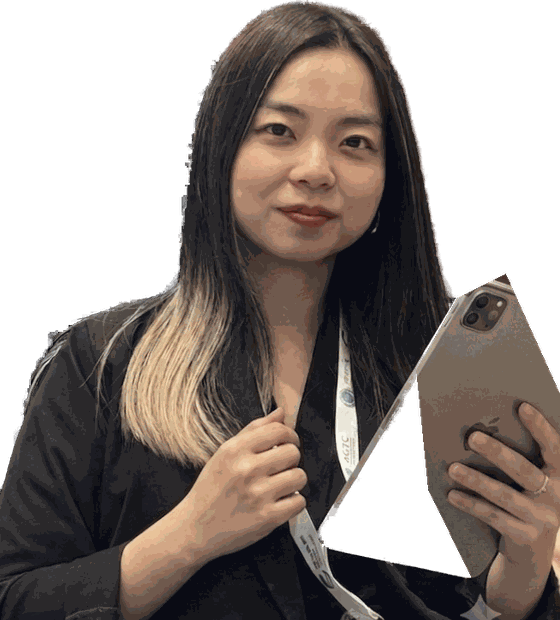
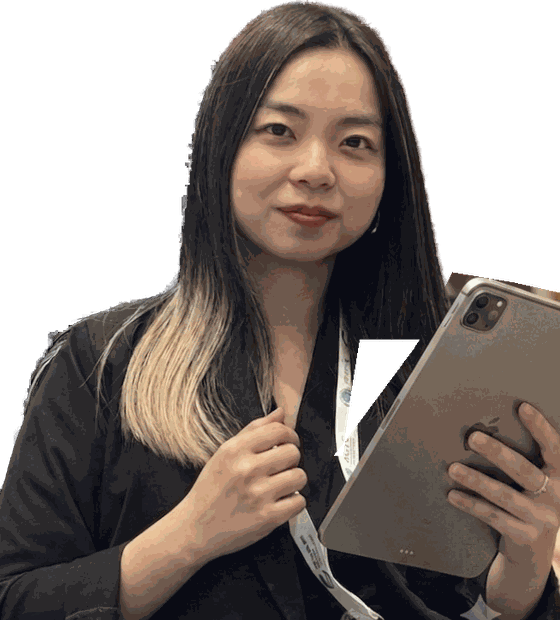
Rev 11: go live with real contacts - Formspree endpoint, Zalo zalo.me link, TikTok, OG image v2 with her photo; hero name fully visible, caption removed

Changed region(s): [[0.5464, 0.521, 0.85, 0.95], [0.9107, 0.4597, 1.0, 0.6435], [0.7893, 0.429, 0.9107, 0.521]]

diff --git a/site/index.html b/site/index.html
@@ -64,7 +64,7 @@ NO free trial anywhere (level test only). Levels are Newbie / Breaker / Speaker.
     </nav>
     <div class="head-actions">
       <span class="lang"><a href="index.en.html">EN</a><a href="index.html" class="on" aria-current="true">VI</a></span>
-      <a href="https://zaloapp.com/qr/p/1b4ahhjd1ysoh" target="_blank" rel="noopener" class="btn btn--primary head-cta" data-placement="header">Nhắn Zalo</a>
+      <a href="https://zalo.me/0376427464" target="_blank" rel="noopener noreferrer" class="btn btn--primary head-cta" data-placement="header">Nhắn Zalo</a>
     </div>
   </div>
 </header>
@@ -78,7 +78,7 @@ NO free trial anywhere (level test only). Levels are Newbie / Breaker / Speaker.
         <p class="display-kicker">Daily Chat.</p>
         <h1 class="hero-h1">Tiếng Anh giao tiếp online cho người đi làm. <mark>Nói thật hơn, tự tin hơn.</mark></h1>
         <div class="hero-ctas">
-          <a href="https://zaloapp.com/qr/p/1b4ahhjd1ysoh" target="_blank" rel="noopener" class="btn btn--primary btn--lg" data-placement="hero">Nhận tư vấn ngay</a>
+          <a href="https://zalo.me/0376427464" target="_blank" rel="noopener noreferrer" class="btn btn--primary btn--lg" data-placement="hero">Nhận tư vấn ngay</a>
         </div>
         <nav class="hero-menu" aria-label="Lối tắt">
           <a href="#enquiry"><span class="tri">→</span> Kiểm tra trình độ miễn phí <span class="num">01</span></a>
@@ -92,7 +92,6 @@ NO free trial anywhere (level test only). Levels are Newbie / Breaker / Speaker.
           <span class="meet-script" aria-hidden="true">Meet</span>
           <img class="meet-photo" src="assets/chloe-cutout-560.png" alt="Chloe" width="560" height="620" fetchpriority="high">
         </figure>
-        <p class="hero-name">Meet Chloe</p>
       </div>
     </div>
   </section>
@@ -164,7 +163,7 @@ NO free trial anywhere (level test only). Levels are Newbie / Breaker / Speaker.
         <h3>Đồng hành đến khi bạn tự tin đi phỏng vấn</h3>
         <p>Nếu gần đến ngày phỏng vấn mà bạn vẫn chưa tự tin, mình sẽ tiếp tục kèm miễn phí để bạn chuẩn bị tốt nhất.</p>
       </div>
-      <p class="small muted" style="margin-top:1rem">Học phí từ 4.900.000 đ, tùy trình độ hiện tại. <a href="https://zaloapp.com/qr/p/1b4ahhjd1ysoh" target="_blank" rel="noopener">Nhận tư vấn ngay</a>.</p>
+      <p class="small muted" style="margin-top:1rem">Học phí từ 4.900.000 đ, tùy trình độ hiện tại. <a href="https://zalo.me/0376427464" target="_blank" rel="noopener noreferrer">Nhận tư vấn ngay</a>.</p>
     </div>
   </section>
 
@@ -377,7 +376,7 @@ NO free trial anywhere (level test only). Levels are Newbie / Breaker / Speaker.
       </div>
       <div class="enquiry-grid">
         <div class="zalo-first">
-          <a href="https://zaloapp.com/qr/p/1b4ahhjd1ysoh" target="_blank" rel="noopener" class="btn btn--zalo btn--lg btn--block" data-placement="enquiry">Nhắn Zalo ngay</a>
+          <a href="https://zalo.me/0376427464" target="_blank" rel="noopener noreferrer" class="btn btn--zalo btn--lg btn--block" data-placement="enquiry">Nhắn Zalo ngay</a>
           <p class="muted">Cách nhanh nhất: nhắn mình qua Zalo. Hoặc để lại thông tin, mình sẽ chủ động liên hệ bạn:</p>
         </div>
         <div class="form-card">
@@ -388,7 +387,7 @@ NO free trial anywhere (level test only). Levels are Newbie / Breaker / Speaker.
               <p class="chat-card__status">Thường phản hồi trong 1 giờ</p>
             </div>
           </div>
-          <form action="REPLACE_FORMSPREE" method="POST" class="draft">
+          <form action="https://formspree.io/f/mrpzjoyy" method="POST">
             <div class="form-2col">
               <div class="field"><label class="flabel" for="f-name">Họ và tên</label><input required minlength="2" id="f-name" name="name" placeholder="Nguyễn Thu Trang" autocomplete="name"></div>
               <div class="field"><label class="flabel" for="f-contact">Số điện thoại (Zalo)</label><input required pattern="[0-9+ \(\)\-]{8,20}" id="f-contact" name="contact" placeholder="09xx xxx xxx" inputmode="tel" autocomplete="tel"></div>
@@ -427,9 +426,9 @@ NO free trial anywhere (level test only). Levels are Newbie / Breaker / Speaker.
       <p class="foot-tag muted">Học tiếng Anh qua những cuộc trò chuyện thật, không rập khuôn, không học vẹt.</p>
     </div>
     <nav class="foot-links" aria-label="Liên kết">
-      <a href="REPLACE_TIKTOK" class="draft">TikTok</a>
-      <a href="https://www.facebook.com/profile.php?id=61592623341942" target="_blank" rel="noopener">Facebook</a>
-      <a href="https://www.instagram.com/dailychatwchloe/" target="_blank" rel="noopener">Instagram</a>
+      <a href="https://www.tiktok.com/@dailychatwchloe" target="_blank" rel="noopener noreferrer">TikTok</a>
+      <a href="https://www.facebook.com/profile.php?id=61592623341942" target="_blank" rel="noopener noreferrer">Facebook</a>
+      <a href="https://www.instagram.com/dailychatwchloe/" target="_blank" rel="noopener noreferrer">Instagram</a>
     </nav>
     <p class="copyright">© <span id="year"></span> Daily Chat with Chloe</p>
   </div>
@@ -437,7 +436,7 @@ NO free trial anywhere (level test only). Levels are Newbie / Breaker / Speaker.
 
 <!-- ============ STICKY MOBILE CTA ============ -->
 <div class="sticky-cta" id="stickyCta">
-  <a href="https://zaloapp.com/qr/p/1b4ahhjd1ysoh" target="_blank" rel="noopener" class="btn btn--zalo" data-placement="sticky">Nhắn Zalo</a>
+  <a href="https://zalo.me/0376427464" target="_blank" rel="noopener noreferrer" class="btn btn--zalo" data-placement="sticky">Nhắn Zalo</a>
   <a href="#enquiry" class="btn btn--primary" data-placement="sticky">Nhận tư vấn ngay</a>
 </div>
 

diff --git a/site/index.en.html b/site/index.en.html
@@ -59,7 +59,7 @@
     </nav>
     <div class="head-actions">
       <span class="lang"><a href="index.en.html" class="on" aria-current="true">EN</a><a href="index.html">VI</a></span>
-      <a href="https://zaloapp.com/qr/p/1b4ahhjd1ysoh" target="_blank" rel="noopener" class="btn btn--primary head-cta" data-placement="header">Chat on Zalo</a>
+      <a href="https://zalo.me/0376427464" target="_blank" rel="noopener noreferrer" class="btn btn--primary head-cta" data-placement="header">Chat on Zalo</a>
     </div>
   </div>
 </header>
@@ -73,7 +73,7 @@
         <p class="display-kicker">Daily Chat.</p>
         <h1 class="hero-h1">Online English for Vietnamese professionals. <mark>Speak more naturally, more confidently.</mark></h1>
         <div class="hero-ctas">
-          <a href="https://zaloapp.com/qr/p/1b4ahhjd1ysoh" target="_blank" rel="noopener" class="btn btn--primary btn--lg" data-placement="hero">Get a free consult</a>
+          <a href="https://zalo.me/0376427464" target="_blank" rel="noopener noreferrer" class="btn btn--primary btn--lg" data-placement="hero">Get a free consult</a>
         </div>
         <nav class="hero-menu" aria-label="Shortcuts">
           <a href="#enquiry"><span class="tri">→</span> Free level test <span class="num">01</span></a>
@@ -87,7 +87,6 @@
           <span class="meet-script" aria-hidden="true">Meet</span>
           <img class="meet-photo" src="assets/chloe-cutout-560.png" alt="Chloe" width="560" height="620" fetchpriority="high">
         </figure>
-        <p class="hero-name">Meet Chloe</p>
       </div>
     </div>
   </section>
@@ -159,7 +158,7 @@
         <h3>With you until you're ready</h3>
         <p>If your interview is coming up and you still don't feel confident, Chloe keeps coaching you free of charge until you truly are.</p>
       </div>
-      <p class="small muted" style="margin-top:1rem">From 4,900,000đ, depending on your current level. <a href="https://zaloapp.com/qr/p/1b4ahhjd1ysoh" target="_blank" rel="noopener">Get a free consult</a>.</p>
+      <p class="small muted" style="margin-top:1rem">From 4,900,000đ, depending on your current level. <a href="https://zalo.me/0376427464" target="_blank" rel="noopener noreferrer">Get a free consult</a>.</p>
     </div>
   </section>
 
@@ -372,7 +371,7 @@
       </div>
       <div class="enquiry-grid">
         <div class="zalo-first">
-          <a href="https://zaloapp.com/qr/p/1b4ahhjd1ysoh" target="_blank" rel="noopener" class="btn btn--zalo btn--lg btn--block" data-placement="enquiry">Message on Zalo now</a>
+          <a href="https://zalo.me/0376427464" target="_blank" rel="noopener noreferrer" class="btn btn--zalo btn--lg btn--block" data-placement="enquiry">Message on Zalo now</a>
           <p class="muted">The fastest way: message Chloe on Zalo. Or leave your details and Chloe will reach out to you:</p>
         </div>
         <div class="form-card">
@@ -383,7 +382,7 @@
               <p class="chat-card__status">Usually replies within an hour</p>
             </div>
           </div>
-          <form action="REPLACE_FORMSPREE" method="POST" class="draft">
+          <form action="https://formspree.io/f/mrpzjoyy" method="POST">
             <div class="form-2col">
               <div class="field"><label class="flabel" for="f-name">Your name</label><input required minlength="2" id="f-name" name="name" placeholder="Nguyen Thu Trang" autocomplete="name"></div>
               <div class="field"><label class="flabel" for="f-contact">Phone (Zalo)</label><input required pattern="[0-9+ \(\)\-]{8,20}" id="f-contact" name="contact" placeholder="09xx xxx xxx" inputmode="tel" autocomplete="tel"></div>
@@ -422,9 +421,9 @@
       <p class="foot-tag muted">Learn English through real conversations, no scripts, no rote learning.</p>
     </div>
     <nav class="foot-links" aria-label="Links">
-      <a href="REPLACE_TIKTOK" class="draft">TikTok</a>
-      <a href="https://www.facebook.com/profile.php?id=61592623341942" target="_blank" rel="noopener">Facebook</a>
-      <a href="https://www.instagram.com/dailychatwchloe/" target="_blank" rel="noopener">Instagram</a>
+      <a href="https://www.tiktok.com/@dailychatwchloe" target="_blank" rel="noopener noreferrer">TikTok</a>
+      <a href="https://www.facebook.com/profile.php?id=61592623341942" target="_blank" rel="noopener noreferrer">Facebook</a>
+      <a href="https://www.instagram.com/dailychatwchloe/" target="_blank" rel="noopener noreferrer">Instagram</a>
     </nav>
     <p class="copyright">© <span id="year"></span> Daily Chat with Chloe</p>
   </div>
@@ -432,7 +431,7 @@
 
 <!-- ============ STICKY MOBILE CTA ============ -->
 <div class="sticky-cta" id="stickyCta">
-  <a href="https://zaloapp.com/qr/p/1b4ahhjd1ysoh" target="_blank" rel="noopener" class="btn btn--zalo" data-placement="sticky">Chat on Zalo</a>
+  <a href="https://zalo.me/0376427464" target="_blank" rel="noopener noreferrer" class="btn btn--zalo" data-placement="sticky">Chat on Zalo</a>
   <a href="#enquiry" class="btn btn--primary" data-placement="sticky">Free consult</a>
 </div>
 

diff --git a/site/assets/styles.css b/site/assets/styles.css
@@ -146,7 +146,6 @@ section{padding-block:4rem}
 .hero-menu a:hover{text-decoration:none;background:rgb(15 52 115 / .06)}
 .hero-menu .num{margin-left:auto;font-family:var(--font-display);font-weight:700;font-size:1.5rem}
 .hero-menu .tri{color:var(--teal-700);font-size:.8rem}
-.hero-name{font-weight:700;font-size:1.25rem;text-align:center;margin-top:1.1rem;font-family:var(--font-display)}
 .hero-cred{color:var(--teal-700);font-weight:600;text-align:center;font-family:var(--font-display)}
 @media(min-width:900px){.hero{padding-block:5rem 6.5rem}}
 .hero .wrap{display:grid;gap:2.75rem;align-items:center}
@@ -164,10 +163,10 @@ section{padding-block:4rem}
 .hero-ctas{display:flex;flex-wrap:wrap;gap:1.2rem;align-items:center;margin-top:1.9rem}
 .hero-chat{max-width:24.5rem;justify-self:center;width:100%}
 /* "Meet Chloe" poster (owner reference: Meet Desi): giant name behind, cutout in front, no arrows */
-.meet{position:relative;container-type:inline-size;margin:0 auto;width:100%;max-width:24rem;aspect-ratio:1/1.08;display:grid;place-items:end center}
+.meet{position:relative;container-type:inline-size;margin:0 auto;width:100%;max-width:24rem;aspect-ratio:1/1.16;display:grid;place-items:end center}
 .meet-script{position:absolute;left:2%;top:0;font-family:var(--font-display);font-weight:700;font-style:italic;font-size:clamp(1.9rem,5.5vw,2.6rem);color:var(--coral-500);transform:rotate(-8deg);z-index:2;line-height:1}
-.meet-word{position:absolute;left:50%;top:4%;transform:translateX(-50%);font-family:var(--font-display);font-weight:800;font-size:clamp(5.6rem,38cqw,8.75rem);max-width:112%;line-height:1;letter-spacing:-.03em;color:var(--teal-900);opacity:.26;white-space:nowrap;user-select:none;z-index:0}
-.meet-photo{position:relative;z-index:1;width:88%;height:auto;max-height:100%;object-fit:contain;object-position:50% 100%;border-radius:0;display:block}
+.meet-word{position:absolute;left:50%;top:-5%;transform:translateX(-50%);font-family:var(--font-display);font-weight:800;font-size:clamp(5.6rem,38cqw,8.75rem);max-width:112%;line-height:1;letter-spacing:-.03em;color:var(--teal-900);opacity:.26;white-space:nowrap;user-select:none;z-index:0}
+.meet-photo{position:relative;z-index:1;width:74%;height:auto;max-height:100%;object-fit:contain;object-position:50% 100%;border-radius:0;display:block}
 .hero-cred{display:none}
 
 /* ---------- Result claim (owner copy) ---------- */
@@ -354,8 +353,6 @@ body{padding-bottom:calc(4.4rem + env(safe-area-inset-bottom))}
 @media(min-width:1024px){.sticky-cta{display:none}body{padding-bottom:0}}
 
 
-/* ---------- Draft placeholders ---------- */
-.draft{}
 
 /* ---------- Reduced motion ---------- */
 @media(prefers-reduced-motion:reduce){

diff --git a/site/README.md b/site/README.md
@@ -17,16 +17,15 @@ Hand-written CSS at `assets/styles.css` (no Tailwind, no build step — committe
 `diff <(grep -o 'class="[^"]*"' index.html) <(grep -o 'class="[^"]*"' index.en.html)` → should be empty.
 (Known intentional exception: the `.on` class in the EN|VI language switcher sits on a different anchor per page.)
 
-## Before launch — replace placeholders (search `REPLACE_`)
-| Token | What |
-|---|---|
-| `REPLACE_TIKTOK` | TikTok URL (footer) |
-| `REPLACE_FORMSPREE` | Formspree endpoint (enquiry form). Until set, submissions go NOWHERE (JS shows the error path pointing users to Zalo). |
-| og-image v2 | v1 (brand-only) ships at `assets/og-image.png`; swap in a photo version at launch |
+## Contacts: ALL REAL as of 2026-08-21 (no `REPLACE_` tokens remain)
+Zalo = `https://zalo.me/0376427464` (5 CTAs per index file), form = Formspree `f/mrpzjoyy` (submissions land in the owner's Formspree dashboard + email), TikTok `@dailychatwchloe`, Instagram, Facebook. og-image is v2 with the owner's photo.
 
-Live contacts (since 2026-08-18): Zalo CTAs use the owner's QR link `https://zaloapp.com/qr/p/1b4ahhjd1ysoh` — KNOWN ISSUE: this is QR plumbing (zalo:// scheme + App Store fallback) and fails on some phones; swap all 5 links to `https://zalo.me/<owner phone number>` once she provides the number. Instagram + Facebook are real.
+## Remaining launch steps (blocked on domain purchase: dailychatwithchloe.com, confirmed available)
+1. Owner buys the domain in her Cloudflare account and attaches it to the worker.
+2. Swap staging host in all files: `git grep -n 'english-with-chloe.serenetravel-vietnam.workers.dev' -- site` (31 occurrences: canonicals, hreflang, OG, JSON-LD, robots.txt, sitemap.xml).
+3. Remove the 3 `noindex` metas (index.html, index.en.html, terms.html).
+4. Google Search Console: add property, submit sitemap, request indexing.
 
-Placeholder links carry the `.draft` class (no visual effect now); remove it as each is finalized. Also remove the `noindex` meta at launch. Photos, logo and testimonials are real as of rev 9 (assets/chloe*.jpg, student-*.jpg, logo-*.png).
 
 ## Local preview
 `cd site && python3 -m http.server 8787` → http://localhost:8787 (or the repo's `.claude/launch.json` "site" config).
